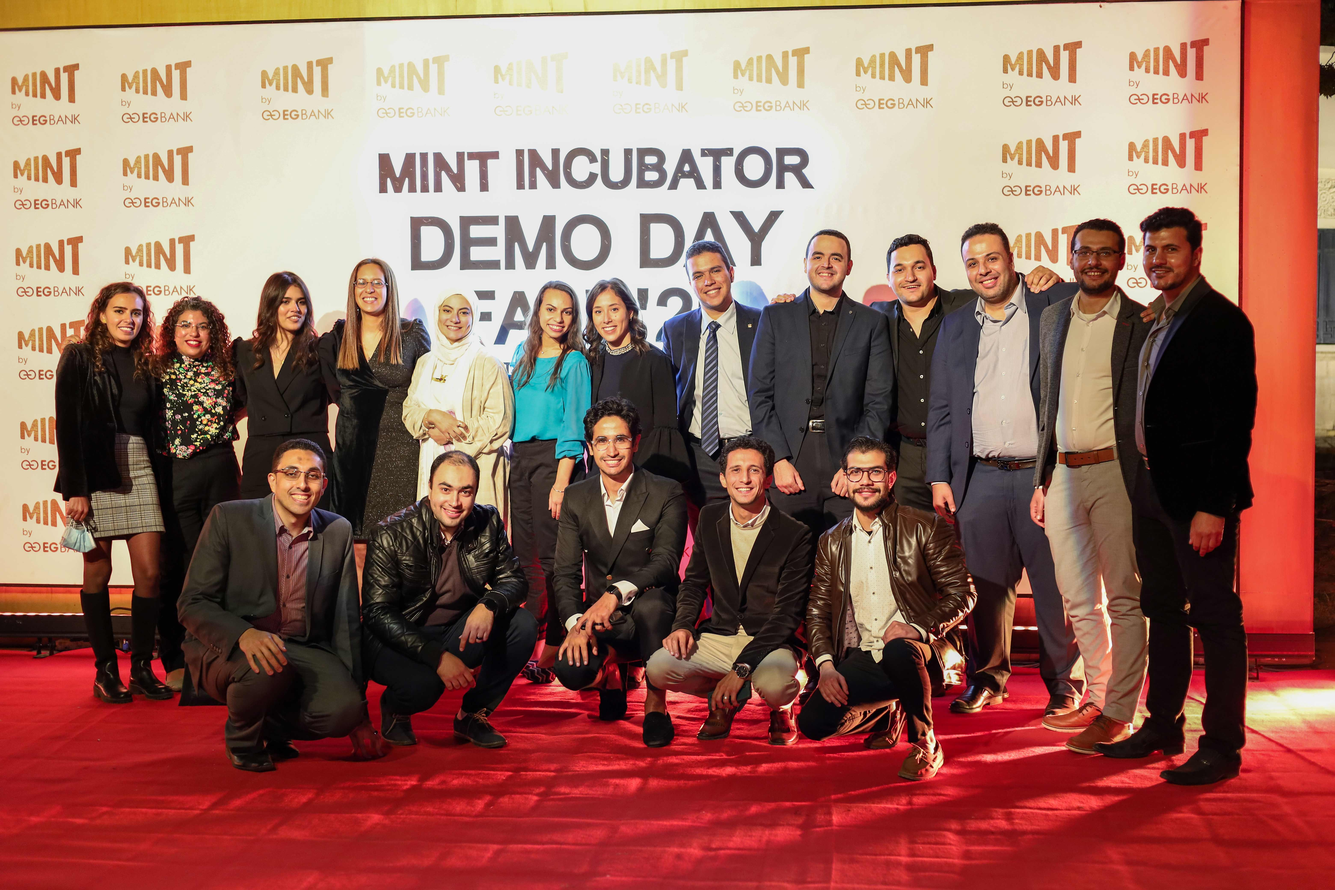
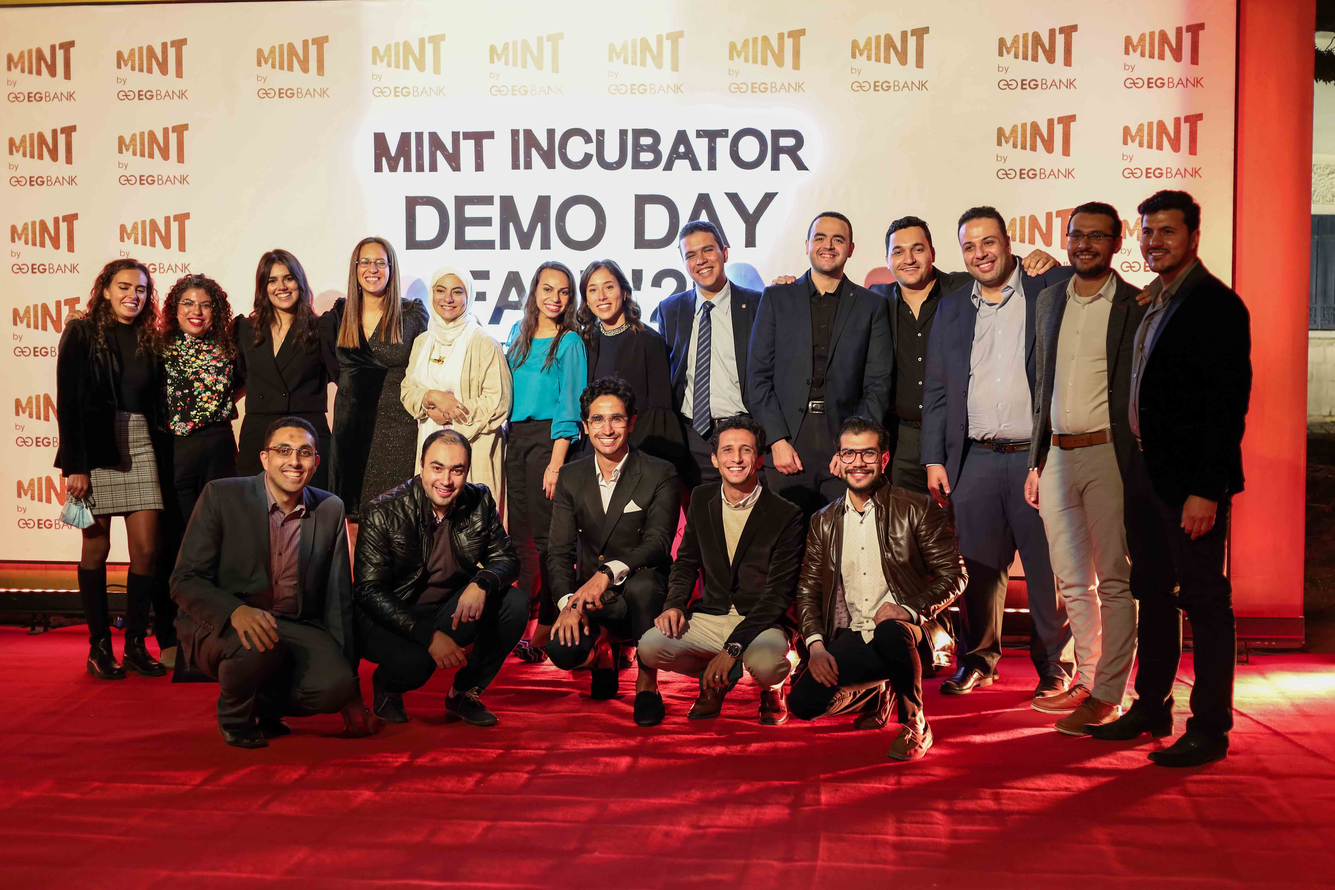
3.6.6

diff --git a/BraveNave/index.html b/BraveNave/index.html
@@ -111,120 +111,108 @@
                 <div class="row gy-4 justify-content-center">
                     <div class="col-xl-3 col-lg-4 col-md-6">
                         <div class="gallery-item h-100">
-                            <img loading="lazy" src="assets/img/gallery/gallery-1.jpg" class="img-fluid" alt="">
+                            <img loading="lazy" src="assets/img/gallery/demoday2.jpg" class="img-fluid" alt="">
                             <div class="gallery-links d-flex align-items-center justify-content-center">
-                                <a href="assets/img/gallery/gallery-1.jpg" title="Gallery 1" class="glightbox preview-link"><i class="bi bi-arrows-angle-expand"></i></a>
-                                <a href="gallery-single.html" class="details-link"><i class="bi bi-link-45deg"></i></a>
+                                <a href="assets/img/gallery/demoday2.jpg" title="MINT-DemoDay2021" class="glightbox preview-link"><i class="bi bi-arrows-angle-expand"></i></a>
                             </div>
                         </div>
                     </div>
                     <!-- End Gallery Item -->
                     <div class="col-xl-3 col-lg-4 col-md-6">
                         <div class="gallery-item h-100">
-                            <img loading="lazy" src="assets/img/gallery/gallery-2.jpg" class="img-fluid" alt="">
+                            <img loading="lazy" src="assets/img/cfa/1.jpg" class="img-fluid" alt="">
                             <div class="gallery-links d-flex align-items-center justify-content-center">
-                                <a href="assets/img/gallery/gallery-2.jpg" title="Gallery 2" class="glightbox preview-link"><i class="bi bi-arrows-angle-expand"></i></a>
-                                <a href="gallery-single.html" class="details-link"><i class="bi bi-link-45deg"></i></a>
+                                <a href="assets/img/cfa/1.jpg" title="CFA ECU Summit" class="glightbox preview-link"><i class="bi bi-arrows-angle-expand"></i></a>
                             </div>
                         </div>
                     </div>
                     <!-- End Gallery Item -->
                     <div class="col-xl-3 col-lg-4 col-md-6">
                         <div class="gallery-item h-100">
-                            <img loading="lazy" src="assets/img/gallery/gallery-3.jpg" class="img-fluid" alt="">
+                            <img loading="lazy" src="assets/img/Aboelarosa/1.jpg" class="img-fluid" alt="">
                             <div class="gallery-links d-flex align-items-center justify-content-center">
-                                <a href="assets/img/gallery/gallery-3.jpg" title="Gallery 3" class="glightbox preview-link"><i class="bi bi-arrows-angle-expand"></i></a>
-                                <a href="gallery-single.html" class="details-link"><i class="bi bi-link-45deg"></i></a>
+                                <a href="assets/img/Aboelarosa/1.jpg" title="Abo El Arosa TV show Shoot" class="glightbox preview-link"><i class="bi bi-arrows-angle-expand"></i></a>
                             </div>
                         </div>
                     </div>
                     <!-- End Gallery Item -->
                     <div class="col-xl-3 col-lg-4 col-md-6">
                         <div class="gallery-item h-100">
-                            <img loading="lazy" src="assets/img/gallery/gallery-4.jpg" class="img-fluid" alt="">
+                            <img loading="lazy" src="assets/img/revit/1.jpg" class="img-fluid" alt="">
                             <div class="gallery-links d-flex align-items-center justify-content-center">
-                                <a href="assets/img/gallery/gallery-4.jpg" title="Gallery 4" class="glightbox preview-link"><i class="bi bi-arrows-angle-expand"></i></a>
-                                <a href="gallery-single.html" class="details-link"><i class="bi bi-link-45deg"></i></a>
+                                <a href="assets/img/revit/1.jpg" title="Revit-UP 2022" class="glightbox preview-link"><i class="bi bi-arrows-angle-expand"></i></a>
                             </div>
                         </div>
                     </div>
                     <!-- End Gallery Item -->
                     <div class="col-xl-3 col-lg-4 col-md-6">
                         <div class="gallery-item h-100">
-                            <img loading="lazy" src="assets/img/gallery/gallery-5.jpg" class="img-fluid" alt="">
+                            <img loading="lazy" src="assets/img/ciff/9.jpg" class="img-fluid" alt="">
                             <div class="gallery-links d-flex align-items-center justify-content-center">
-                                <a href="assets/img/gallery/gallery-5.jpg" title="Gallery 5" class="glightbox preview-link"><i class="bi bi-arrows-angle-expand"></i></a>
-                                <a href="gallery-single.html" class="details-link"><i class="bi bi-link-45deg"></i></a>
+                                <a href="assets/img/ciff/9.jpg" title="Cairo International Film Festival Coverage" class="glightbox preview-link"><i class="bi bi-arrows-angle-expand"></i></a>
                             </div>
                         </div>
                     </div>
                     <!-- End Gallery Item -->
                     <div class="col-xl-3 col-lg-4 col-md-6">
                         <div class="gallery-item h-100">
-                            <img loading="lazy" src="assets/img/gallery/gallery-6.jpg" class="img-fluid" alt="">
+                            <img loading="lazy" src="assets/img/nature/30.jpg" class="img-fluid" alt="">
                             <div class="gallery-links d-flex align-items-center justify-content-center">
-                                <a href="assets/img/gallery/gallery-6.jpg" title="Gallery 6" class="glightbox preview-link"><i class="bi bi-arrows-angle-expand"></i></a>
-                                <a href="gallery-single.html" class="details-link"><i class="bi bi-link-45deg"></i></a>
+                                <a href="assets/img/nature/30.jpg" title="Nature Shoot in Aswan" class="glightbox preview-link"><i class="bi bi-arrows-angle-expand"></i></a>
                             </div>
                         </div>
                     </div>
                     <!-- End Gallery Item -->
                     <div class="col-xl-3 col-lg-4 col-md-6">
                         <div class="gallery-item h-100">
-                            <img loading="lazy" src="assets/img/gallery/gallery-7.jpg" class="img-fluid" alt="">
+                            <img loading="lazy" src="assets/img/inde/1.jpg" class="img-fluid" alt="">
                             <div class="gallery-links d-flex align-items-center justify-content-center">
-                                <a href="assets/img/gallery/gallery-7.jpg" title="Gallery 7" class="glightbox preview-link"><i class="bi bi-arrows-angle-expand"></i></a>
-                                <a href="gallery-single.html" class="details-link"><i class="bi bi-link-45deg"></i></a>
+                                <a href="assets/img/inde/1.jpg" title="Gallery 7" class="glightbox preview-link"><i class="bi bi-arrows-angle-expand"></i></a>
                             </div>
                         </div>
                     </div>
                     <!-- End Gallery Item -->
                     <div class="col-xl-3 col-lg-4 col-md-6">
                         <div class="gallery-item h-100">
-                            <img loading="lazy" src="assets/img/gallery/gallery-8.jpg" class="img-fluid" alt="">
+                            <img loading="lazy" src="assets/img/food/1.jpg" class="img-fluid" alt="">
                             <div class="gallery-links d-flex align-items-center justify-content-center">
-                                <a href="assets/img/gallery/gallery-8.jpg" title="Gallery 8" class="glightbox preview-link"><i class="bi bi-arrows-angle-expand"></i></a>
-                                <a href="gallery-single.html" class="details-link"><i class="bi bi-link-45deg"></i></a>
+                                <a href="assets/img/food/1.jpg" title="Gallery 8" class="glightbox preview-link"><i class="bi bi-arrows-angle-expand"></i></a>
                             </div>
                         </div>
                     </div>
                     <!-- End Gallery Item -->
                     <div class="col-xl-3 col-lg-4 col-md-6">
                         <div class="gallery-item h-100">
-                            <img loading="lazy" src="assets/img/gallery/gallery-9.jpg" class="img-fluid" alt="">
+                            <img loading="lazy" src="assets/img/nature/36.jpg" class="img-fluid" alt="">
                             <div class="gallery-links d-flex align-items-center justify-content-center">
-                                <a href="assets/img/gallery/gallery-9.jpg" title="Gallery 9" class="glightbox preview-link"><i class="bi bi-arrows-angle-expand"></i></a>
-                                <a href="gallery-single.html" class="details-link"><i class="bi bi-link-45deg"></i></a>
+                                <a href="assets/img/nature/36.jpg" title="Shoot in Luxor" class="glightbox preview-link"><i class="bi bi-arrows-angle-expand"></i></a>
                             </div>
                         </div>
                     </div>
                     <!-- End Gallery Item -->
                     <div class="col-xl-3 col-lg-4 col-md-6">
                         <div class="gallery-item h-100">
-                            <img loading="lazy" src="assets/img/gallery/gallery-10.jpg" class="img-fluid" alt="">
+                            <img loading="lazy" src="assets/img/graduation/1.jpg" class="img-fluid" alt="">
                             <div class="gallery-links d-flex align-items-center justify-content-center">
-                                <a href="assets/img/gallery/gallery-10.jpg" title="Gallery 10" class="glightbox preview-link"><i class="bi bi-arrows-angle-expand"></i></a>
-                                <a href="gallery-single.html" class="details-link"><i class="bi bi-link-45deg"></i></a>
+                                <a href="assets/img/graduation/1.jpg" title="Cairo University Graduation" class="glightbox preview-link"><i class="bi bi-arrows-angle-expand"></i></a>
                             </div>
                         </div>
                     </div>
                     <!-- End Gallery Item -->
                     <div class="col-xl-3 col-lg-4 col-md-6">
                         <div class="gallery-item h-100">
-                            <img loading="lazy" src="assets/img/gallery/gallery-11.jpg" class="img-fluid" alt="">
+                            <img loading="lazy" src="assets/img/revit/3.jpg" class="img-fluid" alt="">
                             <div class="gallery-links d-flex align-items-center justify-content-center">
-                                <a href="assets/img/gallery/gallery-11.jpg" title="Gallery 11" class="glightbox preview-link"><i class="bi bi-arrows-angle-expand"></i></a>
-                                <a href="gallery-single.html" class="details-link"><i class="bi bi-link-45deg"></i></a>
+                                <a href="assets/img/revit/3.jpg" title="Revit-UP Coverage" class="glightbox preview-link"><i class="bi bi-arrows-angle-expand"></i></a>
                             </div>
                         </div>
                     </div>
                     <!-- End Gallery Item -->
                     <div class="col-xl-3 col-lg-4 col-md-6">
                         <div class="gallery-item h-100">
-                            <img loading="lazy" src="assets/img/gallery/gallery-12.jpg" class="img-fluid" alt="">
+                            <img loading="lazy" src="assets/img/revit/2.jpg" class="img-fluid" alt="">
                             <div class="gallery-links d-flex align-items-center justify-content-center">
-                                <a href="assets/img/gallery/gallery-12.jpg" title="Gallery 12" class="glightbox preview-link"><i class="bi bi-arrows-angle-expand"></i></a>
-                                <a href="gallery-single.html" class="details-link"><i class="bi bi-link-45deg"></i></a>
+                                <a href="assets/img/revit/2.jpg" title="Revit-UP Coverage" class="glightbox preview-link"><i class="bi bi-arrows-angle-expand"></i></a>
                             </div>
                         </div>
                     </div>
